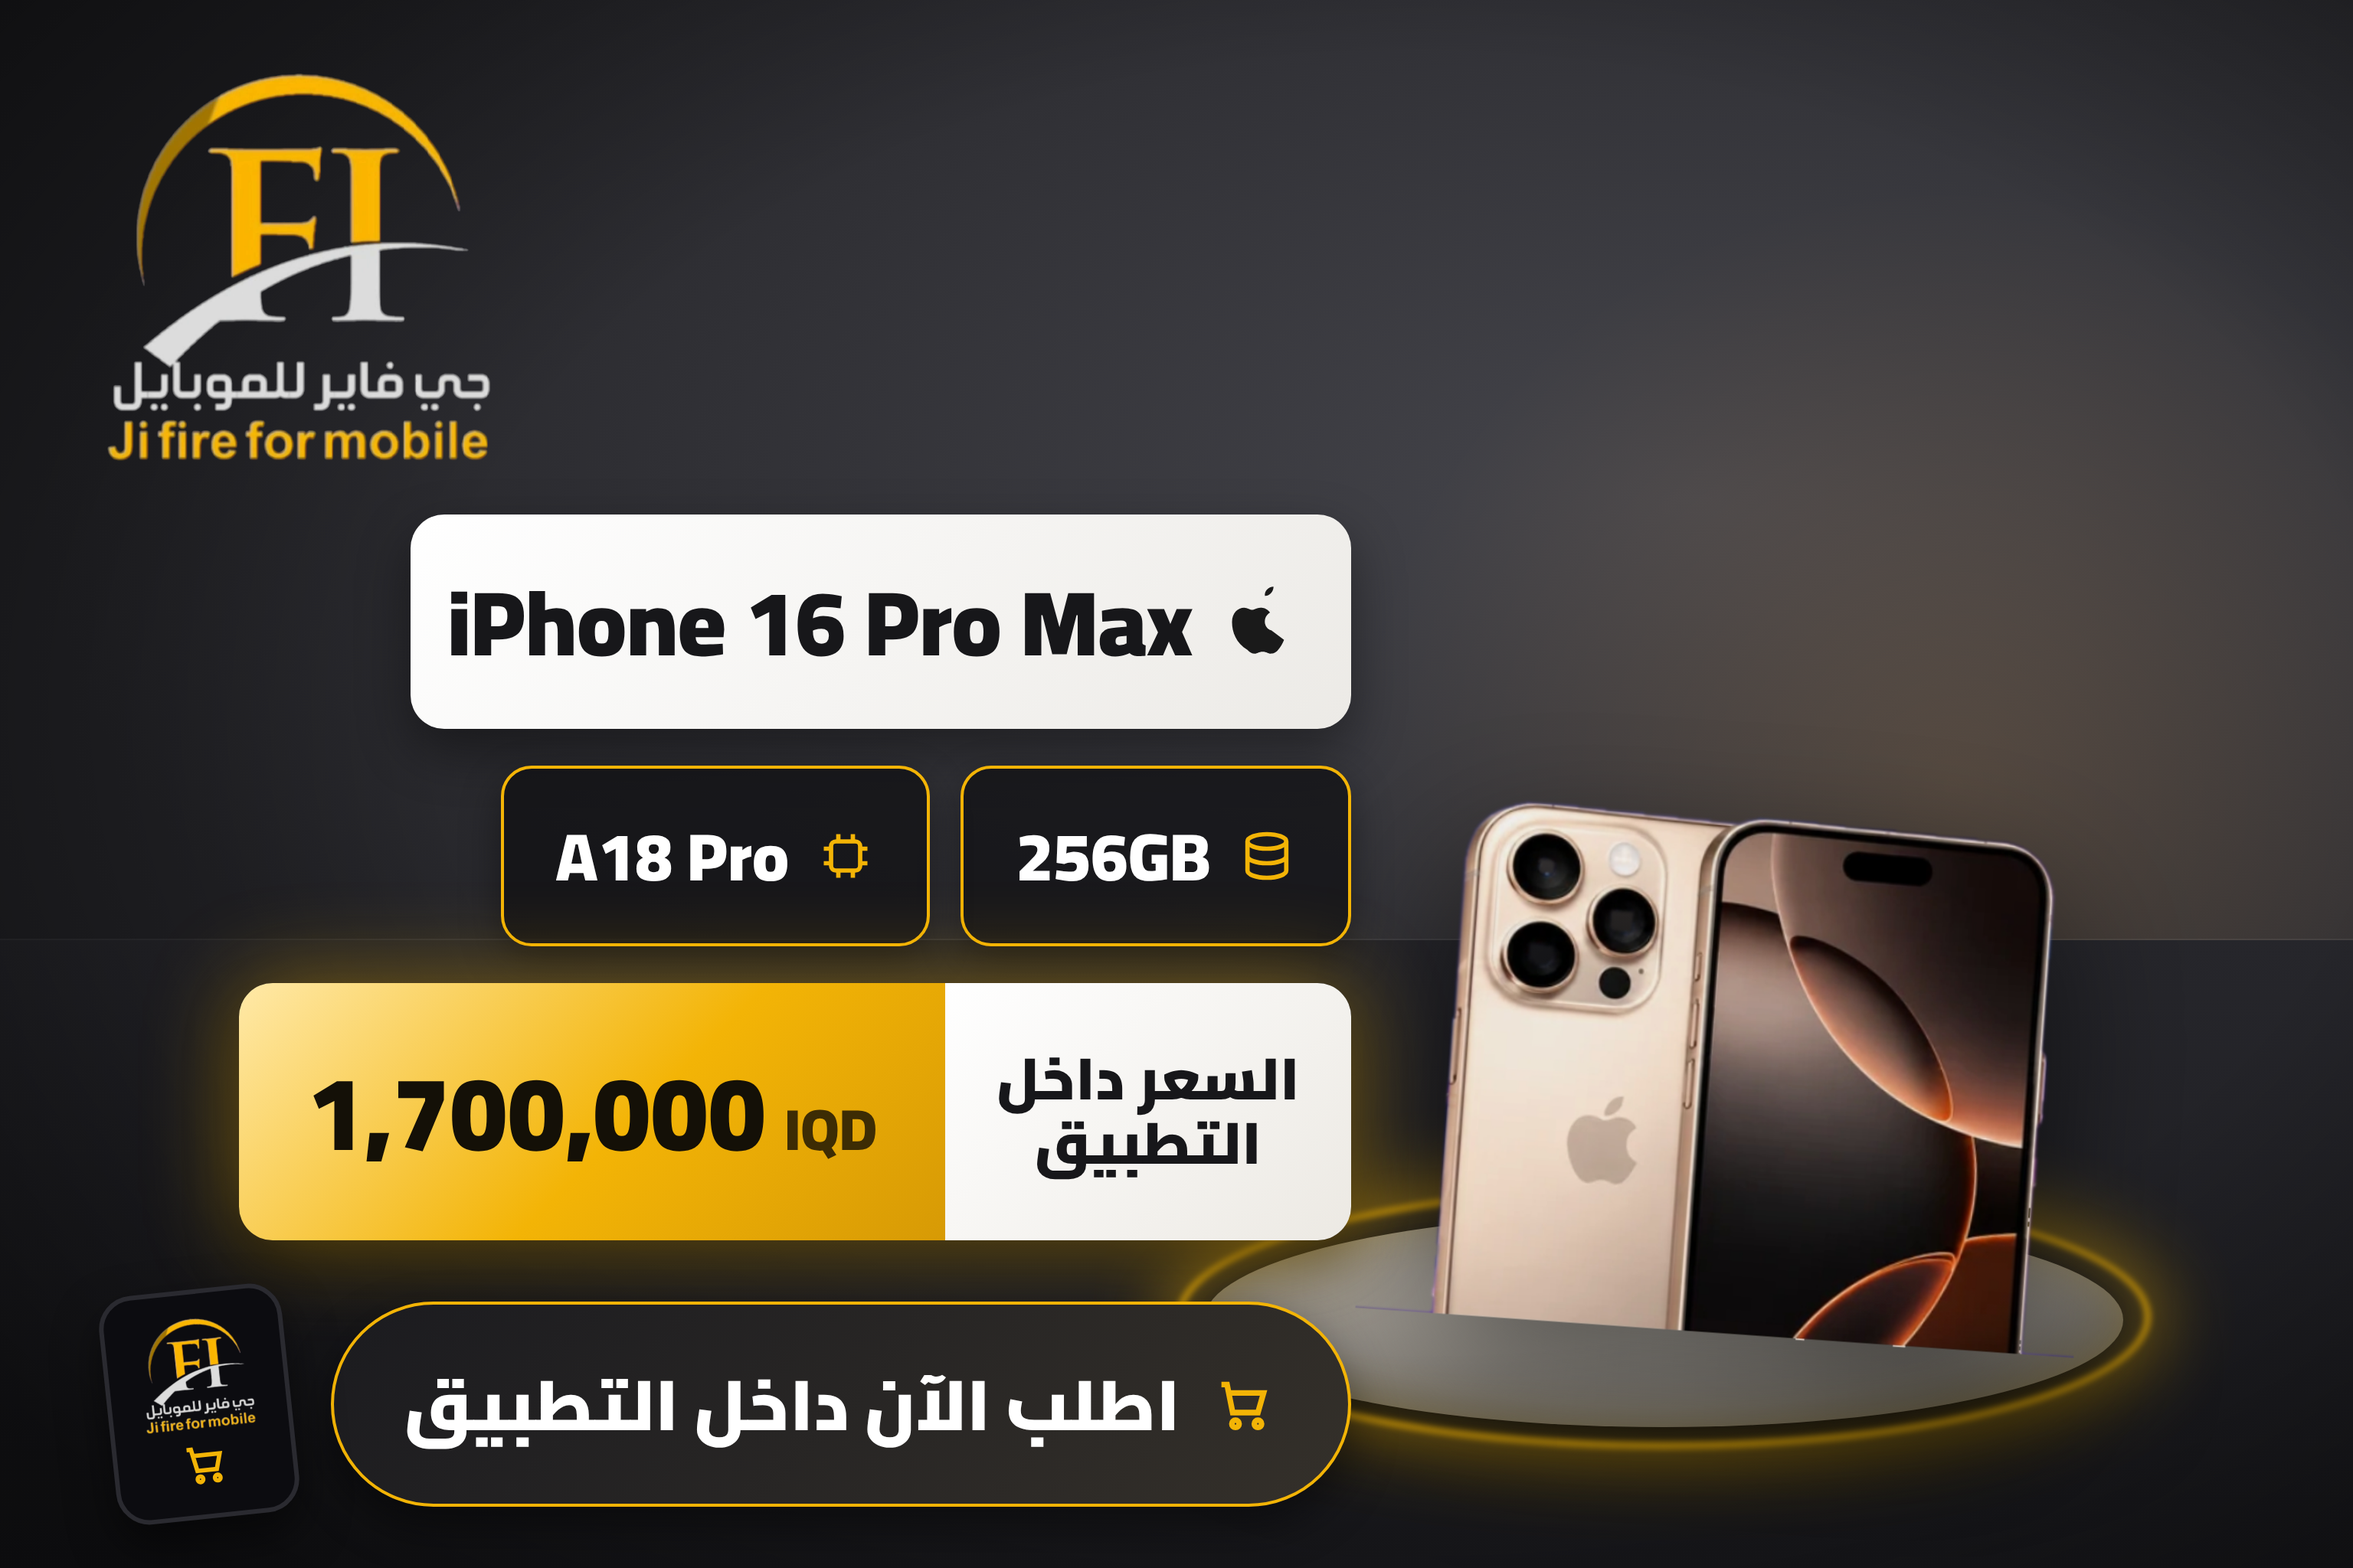
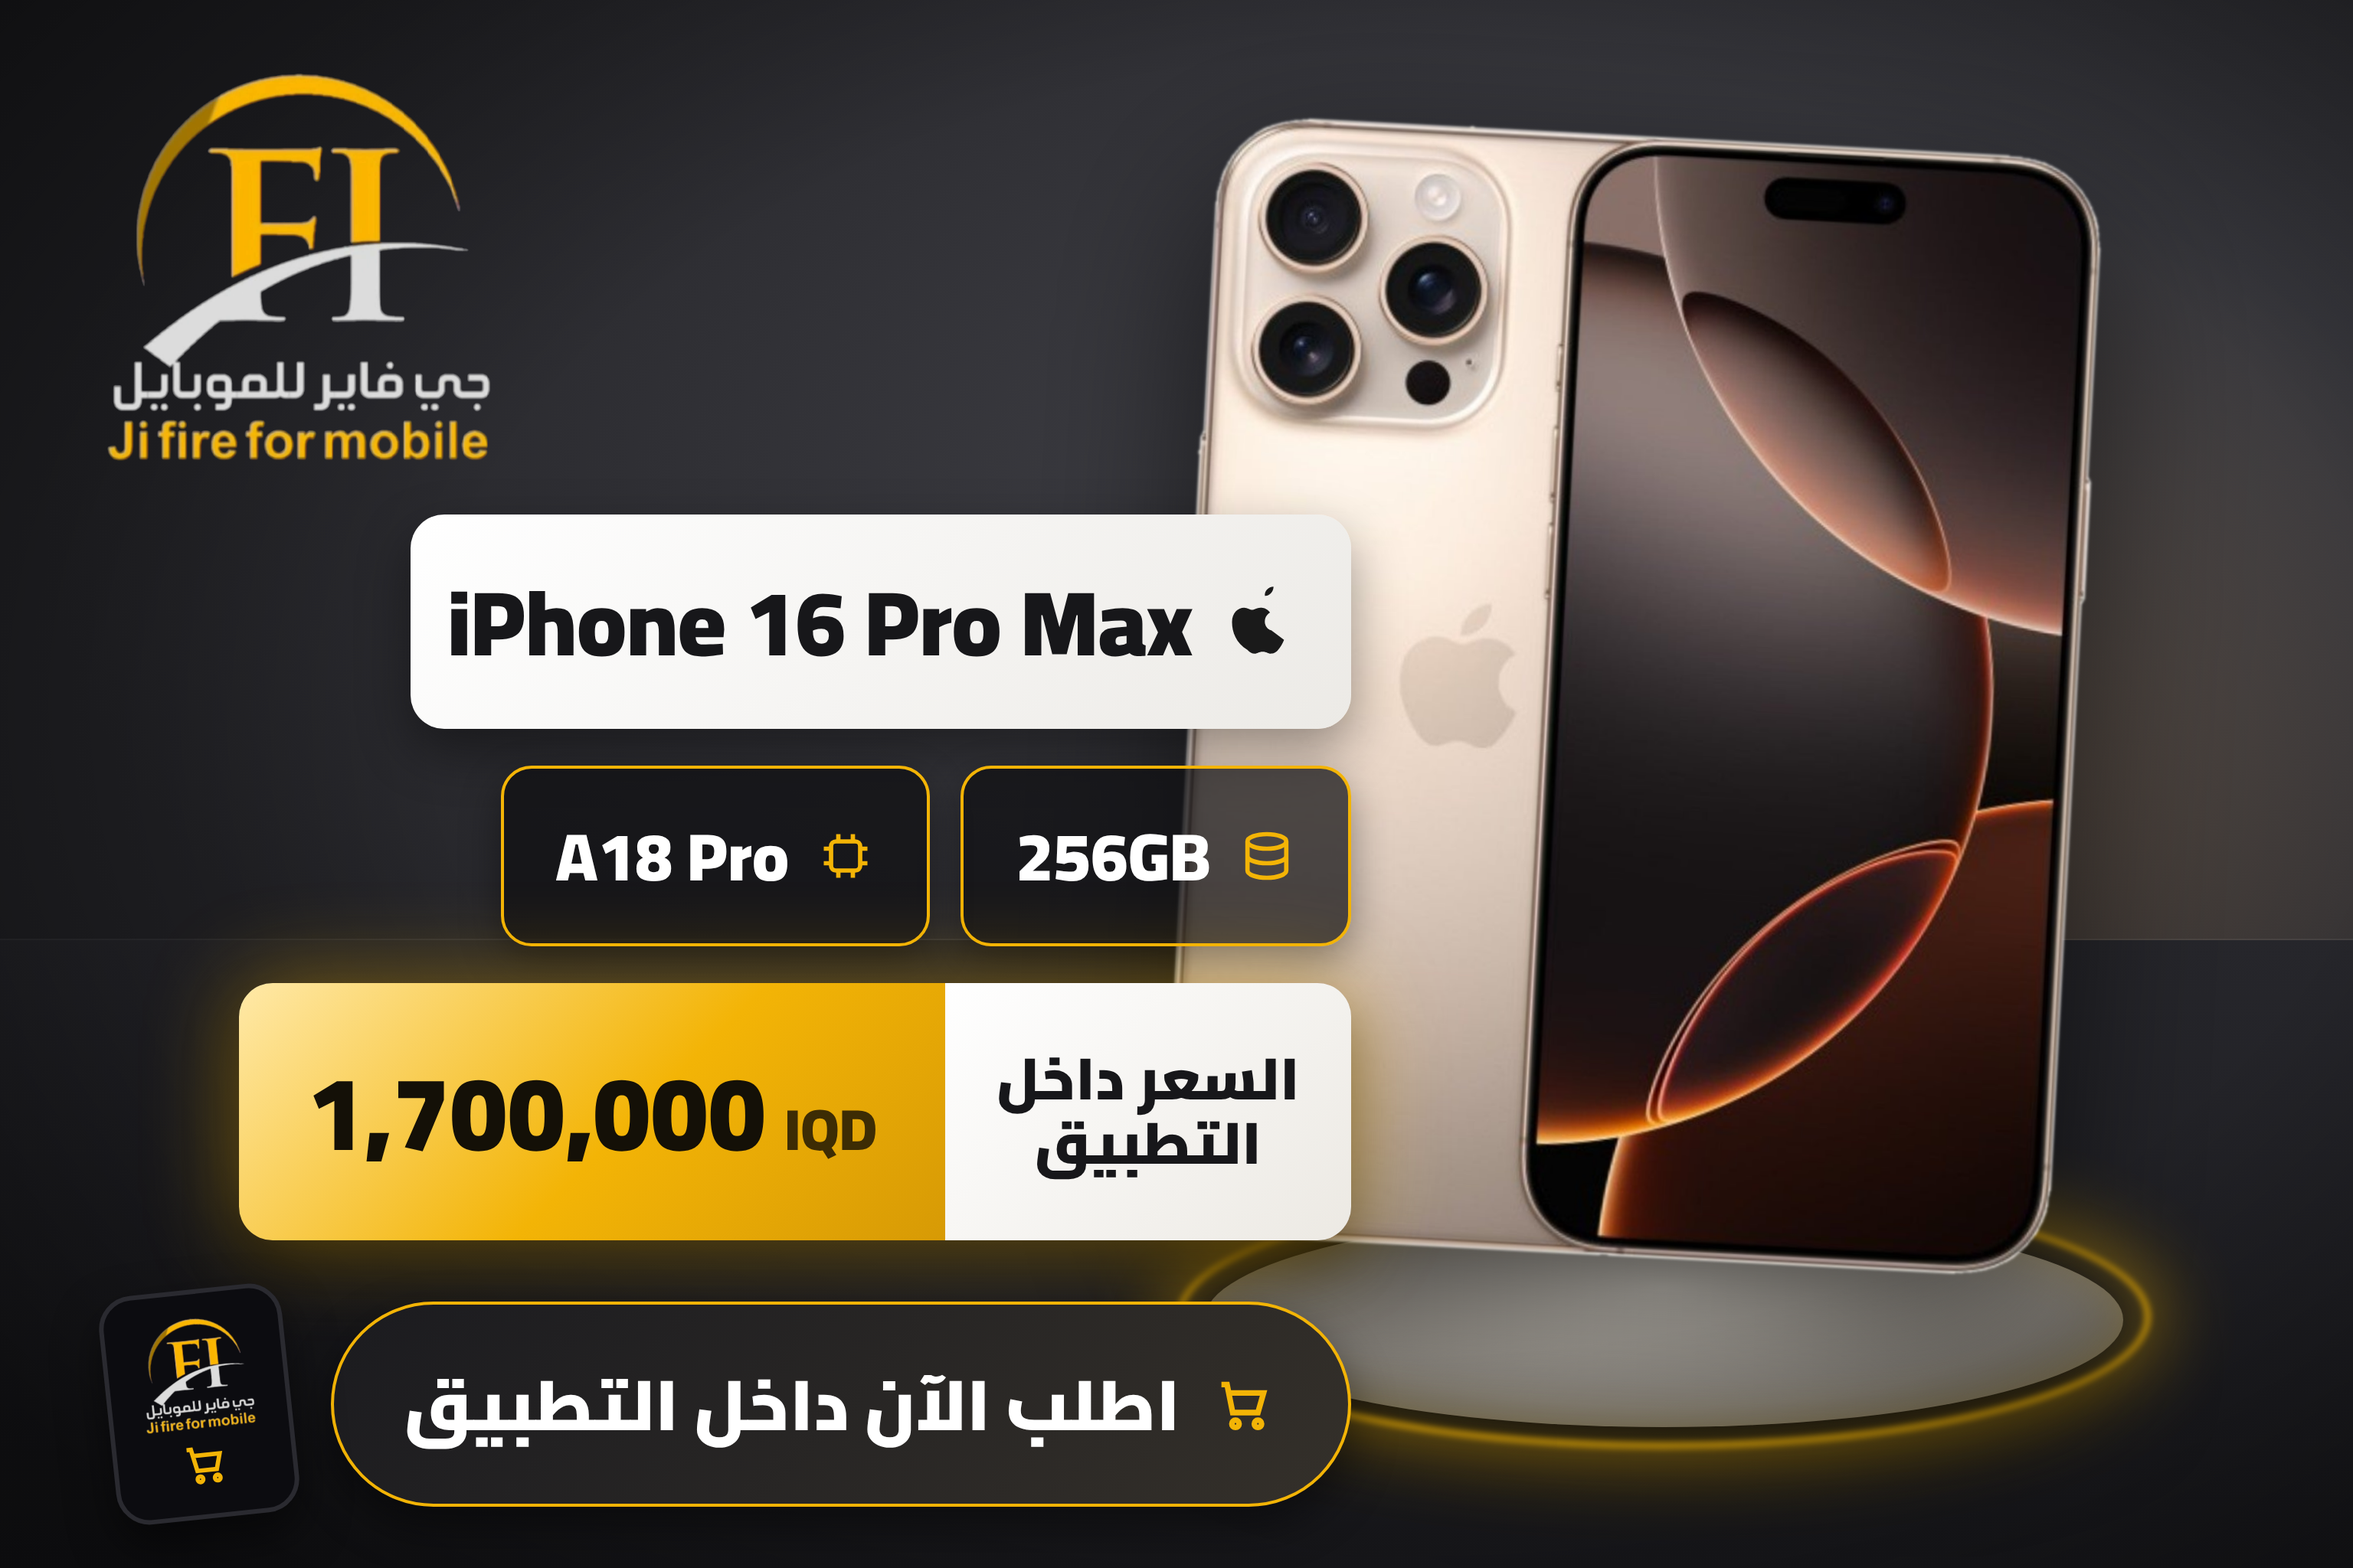
Product post: use the real iPhone 16 Pro Max image from the store catalog (clean white-keyed cutout)
Claude-Session: https://claude.ai/code/session_0144PHt837SWPxcPTGPkzuRV

Changed region(s): [[0.5, 0.0625, 0.9062, 0.9062]]

diff --git a/design/banner/prod.html b/design/banner/prod.html
@@ -12,7 +12,7 @@ html,body{background:#2a2a2e}
 /* podium */
 .podium{position:absolute;right:150px;bottom:92px;width:600px;height:140px;border-radius:50%;background:radial-gradient(ellipse at 50% 35%,#d9d4cb,#8f8a82 60%,#3a3833 100%);box-shadow:0 30px 60px rgba(0,0,0,.5);z-index:1}
 .ring{position:absolute;right:132px;bottom:78px;width:636px;height:172px;border-radius:50%;border:4px solid #F3B406;filter:blur(2px);box-shadow:0 0 50px 8px rgba(243,180,6,.6),inset 0 0 40px rgba(243,180,6,.4);opacity:.9;z-index:2}
-.phone{position:absolute;right:170px;bottom:150px;width:470px;transform:rotate(4deg);filter:drop-shadow(0 40px 50px rgba(0,0,0,.6));z-index:3}
+.phone{position:absolute;right:175px;bottom:200px;height:740px;transform:rotate(3deg);filter:drop-shadow(0 44px 54px rgba(0,0,0,.6));z-index:3}
 .logo{position:absolute;left:70px;top:48px;width:250px;z-index:6}
 .wrap{position:absolute;left:70px;top:336px;z-index:6;display:flex;flex-direction:column;gap:24px;align-items:flex-start}
 .name{display:inline-flex;align-items:center;gap:20px;padding:14px 34px 14px 24px;border-radius:22px;background:linear-gradient(135deg,#ffffff,#eceae6);box-shadow:0 14px 34px rgba(0,0,0,.4)}
@@ -40,7 +40,7 @@ html,body{background:#2a2a2e}
   <div class="warm"></div>
   <div class="surface"></div>
   <div class="ring"></div><div class="podium"></div>
-  <img class="phone" src="iphone.png">
+  <img class="phone" src="iphone16.png">
   <div class="vig"></div>
   <img class="logo" src="logo.png">
   <div class="wrap">

diff --git a/design/banner/cut16.py b/design/banner/cut16.py
@@ -1,0 +1,23 @@
+from PIL import Image
+import numpy as np, cv2
+im=Image.open('i16_raw.jpg').convert('RGB'); a=np.array(im).astype(int); h,w=a.shape[:2]
+R,G,B=a[...,0],a[...,1],a[...,2]
+mn=a.min(2); mx=a.max(2)
+# background = bright & near-neutral (white / light-grey shadow)
+bg=((mn>232)&((mx-mn)<14)).astype(np.uint8)
+# flood from borders so interior light phone parts aren't removed
+ff=bg.copy(); mask=np.zeros((h+2,w+2),np.uint8)
+inv=(1-ff).astype(np.uint8)  # 0=bg candidate
+# connected-component of bg touching border
+n,lab=cv2.connectedComponents(bg)
+border=set(lab[0,:]).union(lab[-1,:]).union(lab[:,0]).union(lab[:,-1]); border.discard(0)
+outside=np.isin(lab,list(border))
+alpha=np.where(outside,0,255).astype(np.uint8)
+# clean + feather
+alpha=cv2.medianBlur(alpha,5)
+alpha=cv2.morphologyEx(alpha,cv2.MORPH_CLOSE,np.ones((5,5),np.uint8))
+alpha=cv2.GaussianBlur(alpha,(0,0),1.2)
+rgba=np.dstack([a.astype(np.uint8),alpha])
+ys,xs=np.where(alpha>40); pad=6
+x0,y0,x1,y1=max(0,xs.min()-pad),max(0,ys.min()-pad),min(w,xs.max()+pad),min(h,ys.max()+pad)
+Image.fromarray(rgba[y0:y1,x0:x1]).save('iphone16.png'); print('saved',x1-x0,y1-y0)

diff --git a/design/banner/README.md b/design/banner/README.md
@@ -24,5 +24,5 @@ Matches the store's real Quoli review-reward codes (QUO-*, 5,000 IQD each, activ
 
 ## product post (iPhone 16 Pro Max) — `prod.html` → `out/post_iphone16promax.png` (1536×1024)
 Owner (2026-11-10): same نسق as a reference ad, details from it: iPhone 16 Pro Max, 256GB, A18 Pro, 1,700,000 IQD (owner's price).
-Dark studio bg + lit podium with gold rim glow, gold iPhone on it; logo top-left; white name pill with Apple mark;
+Dark studio bg + lit podium with gold rim glow, real iPhone 16 Pro Max Desert Titanium cutout from the store catalog (cdn.shopify.com), white keyed out (cut16.py); logo top-left; white name pill with Apple mark;
 spec chips 256GB (right) / A18 Pro (left); price pill «السعر داخل التطبيق» + «1,700,000 IQD»; CTA «اطلب الآن داخل التطبيق» + app mini-phone.
